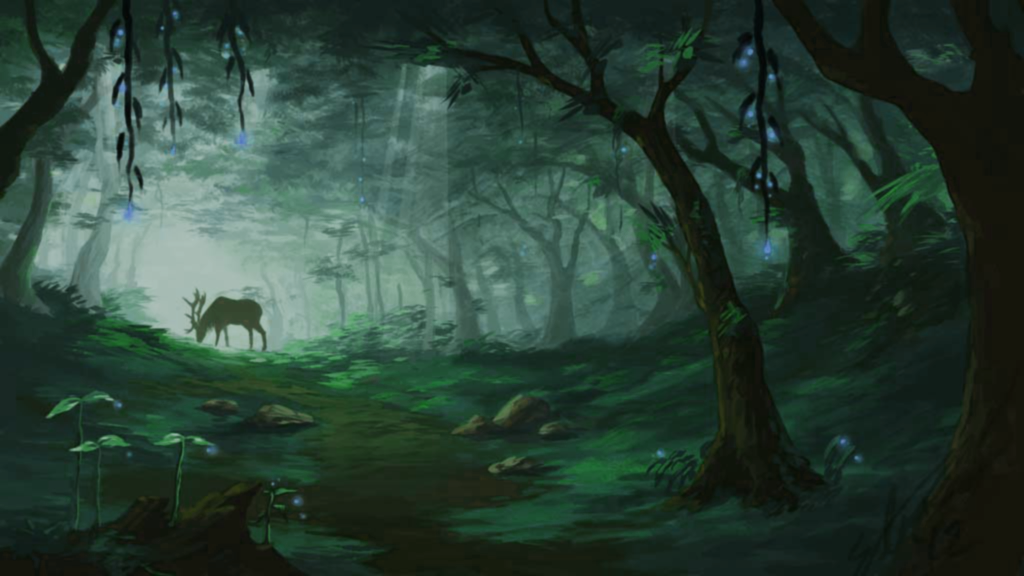
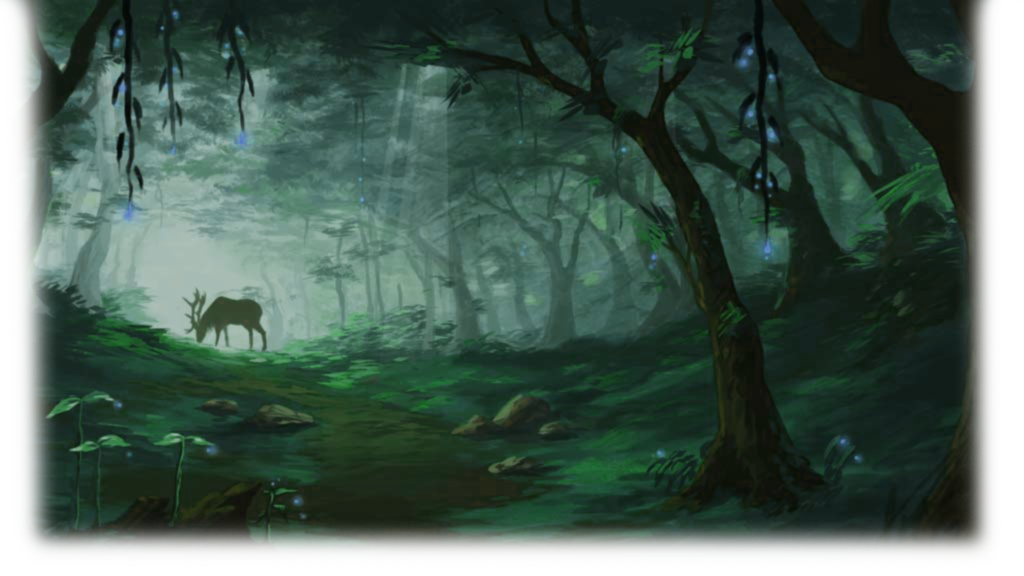
Added choises gui in forest location

Changed region(s): [[0.0, 0.0, 1.0, 1.0]]

diff --git a/main.js b/main.js
@@ -260,7 +260,8 @@ function mainGameLoop(player){
 				}, 500);
 				weatherInit(forest, player); 
 				getWeatherEffects(forest, player);
-					//var areaAction = chooseAreaAction();
+				$("#content").css("background-image", "url(images/forestBg.png)"); 
+				chooseAreaAction("forest");
 					switch (areaAction){
 						case "hunt":
 							var randChance = Math.random(); 
@@ -579,6 +580,10 @@ function weatherInit(area, player){
 	$("#content .playerInfo").append("<div class='weather'><div class='" + area.weather + "'></div><br /><div class='info'><span class='t0'>" + 
 		area.temperature + "°C</span><br /><span class='title'>" + area.weather + "</span></div></div>");
 	$("#content .weather").css("opacity", 1); 
+	$("#content .playerInfo").css("top", "40%"); 
+	setInterval(function(){
+		$("#content .playerInfo").css("top", "80%"); 
+	}, 2000); 
 }
 
 function searchMaterials(area, player){ // searching for materials
@@ -646,13 +651,21 @@ function getWeatherEffects(area, player){
 	var demage = false;  
 	if (area.temperature <= 0 && area.weather == "snow"){
 		player.health -= 20; 
+		$("#content .playerInfo").css("top", "40%"); 
 		$("#content .health").css("width", player.health); 
+		setInterval(function(){
+			$("#content .playerInfo").css("top", "80%"); 
+		}, 2000); 
 		demage = true; 
 		return demage; 
 	}
 	else if (area.temperature >= 20 && area.weather == "heat"){
 		player.health -= 20; 
+		$("#content .playerInfo").css("top", "40%"); 
 		$("#content .health").css("width", player.health); 
+		setInterval(function(){
+			$("#content .playerInfo").css("top", "80%"); 
+		}, 2000); 
 		demage = true; 
 		return demage; 
 	}
@@ -711,10 +724,22 @@ function choosePath(){ // choose path from the start point
 		}, 2700);
 		}
 }
-function chooseAreaAction(){ 
-	var action = window.prompt("You can hunt, look for food, search healing herbs or search materials"); 
-	return action; 
-
+function chooseAreaAction(area){ 
+	$("#content .areaAction").remove(); 
+	$("#content").append("<div class='areaAction'></div>"); 
+	switch(area){
+		case "forest":
+			$("#content .areaAction").addClass("forestActions"); 
+			$("#content .areaAction").css("background-image", "url(images/forestMain.png)"); 
+			$("#content .forestActions").append("<div class='hunt'></div><div class='healingHerbs'></div><div class='lookForFood'></div><div class='searchMaterials'></div>"); 
+		break; 
+		case "river":
+		break; 
+		case "swamp":
+		break; 
+		case "buildHovel":
+		break; 
+	}
 }
 function battle(enemy, player){
 	console.log(enemy);

diff --git a/style.css b/style.css
@@ -102,6 +102,7 @@ p, a, h1, h2, h3 ,h4, h5{
 	text-shadow: 8px 0px 15px rgba(255,255,255,0.35);
 }
 #content .playerInfo{
+	z-index: 999;
 	font-family: 'Inconsolata';
 	opacity: 0;
 	border: 1px solid rgba(255,255,255,0.7);
@@ -120,7 +121,7 @@ p, a, h1, h2, h3 ,h4, h5{
 	-o-transition: all 0.7s ease-in-out; 
 }
 #content .playerInfo:hover{
-	top: 50% !important; 
+	top: 40% !important; 
 }
 #content .playerClass{
 	line-height: 25px;
@@ -223,6 +224,84 @@ p, a, h1, h2, h3 ,h4, h5{
 	background-image:  url(images/buildHovel.png); 
 	margin-left: -11px;
 	}
+#content .areaAction{
+	width: 1024px; 
+	height: 600px; 
+	margin: 0 auto;
+	background-repeat: no-repeat;
+	background-size: 100%; 
+}
+.hunt, .healingHerbs, .lookForFood, .searchMaterials{
+	position: absolute;
+	border-radius: 100px;
+	background-color: rgba(0,0,0,0.8);
+	width: 85px;
+	height: 85px;
+	background-repeat: no-repeat;
+	background-size: 70%;
+	background-position: 50%;
+	transition: all 0.3s linear;
+	-webkit-transition: all 0.3s linear; 
+	-moz-transition: all 0.3s ease-in; 
+	-o-transition: all 0.3s ease-in; 
+	cursor: pointer;
+}
+.hunt{
+	background-image: url(images/hunting_icon.png);
+	margin-left: 190px;
+	margin-top: 200px;
+}
+.healingHerbs{
+	background-image: url(images/herb.png);
+	background-size: 100% !important;
+	margin-top: 400px;
+	margin-left: 100px;
+}
+.lookForFood{
+	background-image: url(images/food.png);
+	margin-left: 550px;
+	margin-top: 350px;
+}
+.searchMaterials{
+	background-image: url(images/materials.png);
+	margin-left: 650px;
+	margin-top: 150px;
+}
+
+.hunt:after, .healingHerbs:after, .lookForFood:after, .searchMaterials:after{
+	display: block; 
+	opacity: 0; 
+	margin-left: 100px; 
+	font-family: 'Inconsolata';
+	color: #fff;
+	width: 200px;
+	font-size: 17px; 
+	margin-top: 35px;
+	transition: all 0.3s linear;
+	-webkit-transition: all 0.3s linear; 
+	-moz-transition: all 0.3s ease-in; 
+	-o-transition: all 0.3s ease-in; 
+	cursor: pointer;
+}
+.hunt:after{
+	content: 'Try to hunt';
+}
+.healingHerbs:after{
+	content: 'Search Healing Herbs';
+}
+.lookForFood:after{
+	content: 'Look for food';
+}
+.searchMaterials:after{
+	content: 'Search some materials';
+}
+
+.hunt:hover, .healingHerbs:hover, .lookForFood:hover, .searchMaterials:hover {
+	box-shadow: 0px 0px 34px 1px rgba(0,0,0,0.9);
+}
+.hunt:hover:after, .healingHerbs:hover:after, .lookForFood:hover:after, .searchMaterials:hover:after{
+	opacity: 1; 
+}
 #content .playerInfo .name{
 	text-transform: uppercase;
 	font-size: 19px; 
